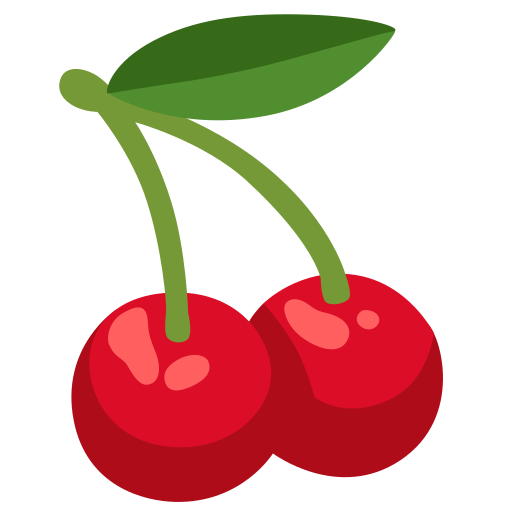
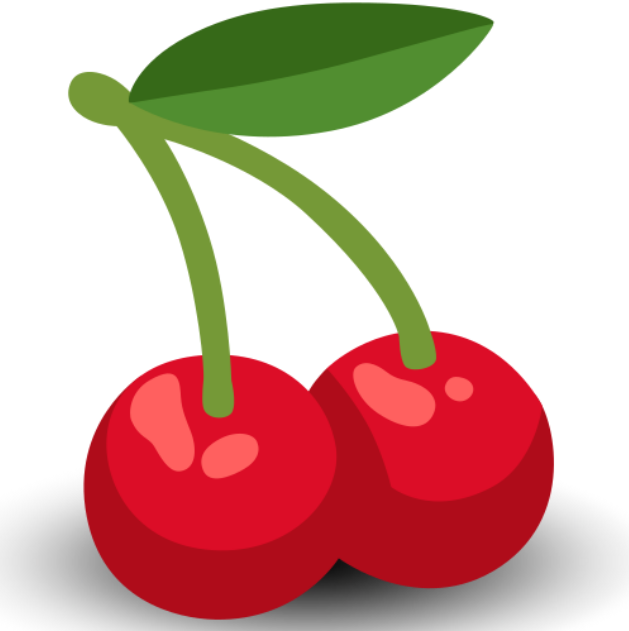
Bugfixes, updated sprites

diff --git a/Game1Page/snake.js b/Game1Page/snake.js
@@ -21,6 +21,7 @@ var snakeBody= [];
 // Food
 var foodX;
 var foodY;
+var activeFoodImage;
 
 // Points
 var points = 0;
@@ -29,19 +30,6 @@ var level = 1;
 // Game over rules
 var gameOver = false; 
 var gameLoopInterval = null;
-
-window.onload = function() {
-  document.getElementById("replayButton").addEventListener("click", replayGame); //replay button
-  
-  board = document.getElementById("board");
-  board.height = rows * blockSize;
-  board.width = cols * blockSize;
-  context = board.getContext("2d"); 
-
-  placeFood();
-  document.addEventListener("keyup", changeDirection);
-  gameLoopInterval = setInterval(update, 1000/10); 
-}
 
 var foodImages = [
   "resources/foodPeach.png", 
@@ -53,14 +41,28 @@ var foodImages = [
 var snakeHeadImage = new Image();
 snakeHeadImage.src = "resources/snakeHead.png";
 
-// Array for image snake tail
 var snakeTailImages = [new Image(), new Image()];
 // Load image for snake tail
 for (let i = 0; i < snakeTailImages.length; i++) {
   snakeTailImages[i].src = "resources/snakeTail.png";
 }
 
-// Functions
+// Start game
+window.onload = function() {
+  document.getElementById("replayButton").addEventListener("click", replayGame); //replay button
+  
+  board = document.getElementById("board");
+  board.height = rows * blockSize;
+  board.width = cols * blockSize;
+  context = board.getContext("2d"); 
+
+  placeFood();
+  document.addEventListener("keyup", changeDirection);
+  gameLoopInterval = setInterval(update, 1000/10);
+  preloadImages();
+}
+
+//Functions
 function update() {
   var context = board.getContext("2d");
 
@@ -126,8 +128,10 @@ function drawBackground() {
 activeFoodImage = foodImages[Math.floor(Math.random() * foodImages.length)];
 
 function drawPlayerAndFood() {
+  var foodImageIndex = Math.floor(Math.random() * foodImages.length);
+  var foodImage = foodImages[foodImageIndex];
+
   var context = board.getContext("2d");
-  console.log("drawing player and food ..")
   context.clearRect(0, 0, board.width, board.height);
 
   context.drawImage(backgroundImage, 0, 0, board.width, board.height);
@@ -142,18 +146,16 @@ function drawPlayerAndFood() {
 
   var foodImage = new Image();
   foodImage.src = activeFoodImage;
-  
-  context.drawImage(foodImage, foodX, foodY, blockSize, blockSize);
+  foodImage.onload = function() {
+    context.drawImage(foodImage, foodX, foodY, blockSize, blockSize);
+  };
+}
 
-  if (!activeFoodImage) {
+  function placeFood() {
+    foodX= Math.floor(Math.random() * cols) * blockSize;
+    foodY= Math.floor(Math.random() * rows) * blockSize;
     activeFoodImage = foodImages[Math.floor(Math.random() * foodImages.length)];
   }
-}
-
-function placeFood() {
-  foodX= Math.floor(Math.random() * cols) * blockSize;
-  foodY= Math.floor(Math.random() * rows) * blockSize;
-}
 
 function changeDirection(e) {
   // Function for moving snake
@@ -226,4 +228,30 @@ function keepPoints() {
   
   updateLevel();
   localStorage.setItem("points", points);
+}
+
+function preloadImages() {
+  var images = [backgroundImage, snakeHeadImage];
+
+  for (let i = 0; i < snakeTailImages.length; i++) {
+    images.push(snakeTailImages[i]);
+  }
+
+  for (let i = 0; i < foodImages.length; i++) {
+    var img = new Image();
+    img.src = foodImages[i];
+    images.push(img);
+  }
+
+  var loadedImages = 0;
+  for (let i = 0; i < images.length; i++) {
+    image.onload = function() {
+      loadedImages++;
+
+      if (loadedImages === foodImages.length) {
+        // Start the game after all images are loaded
+        update();
+      }
+    };
+  }
 }
